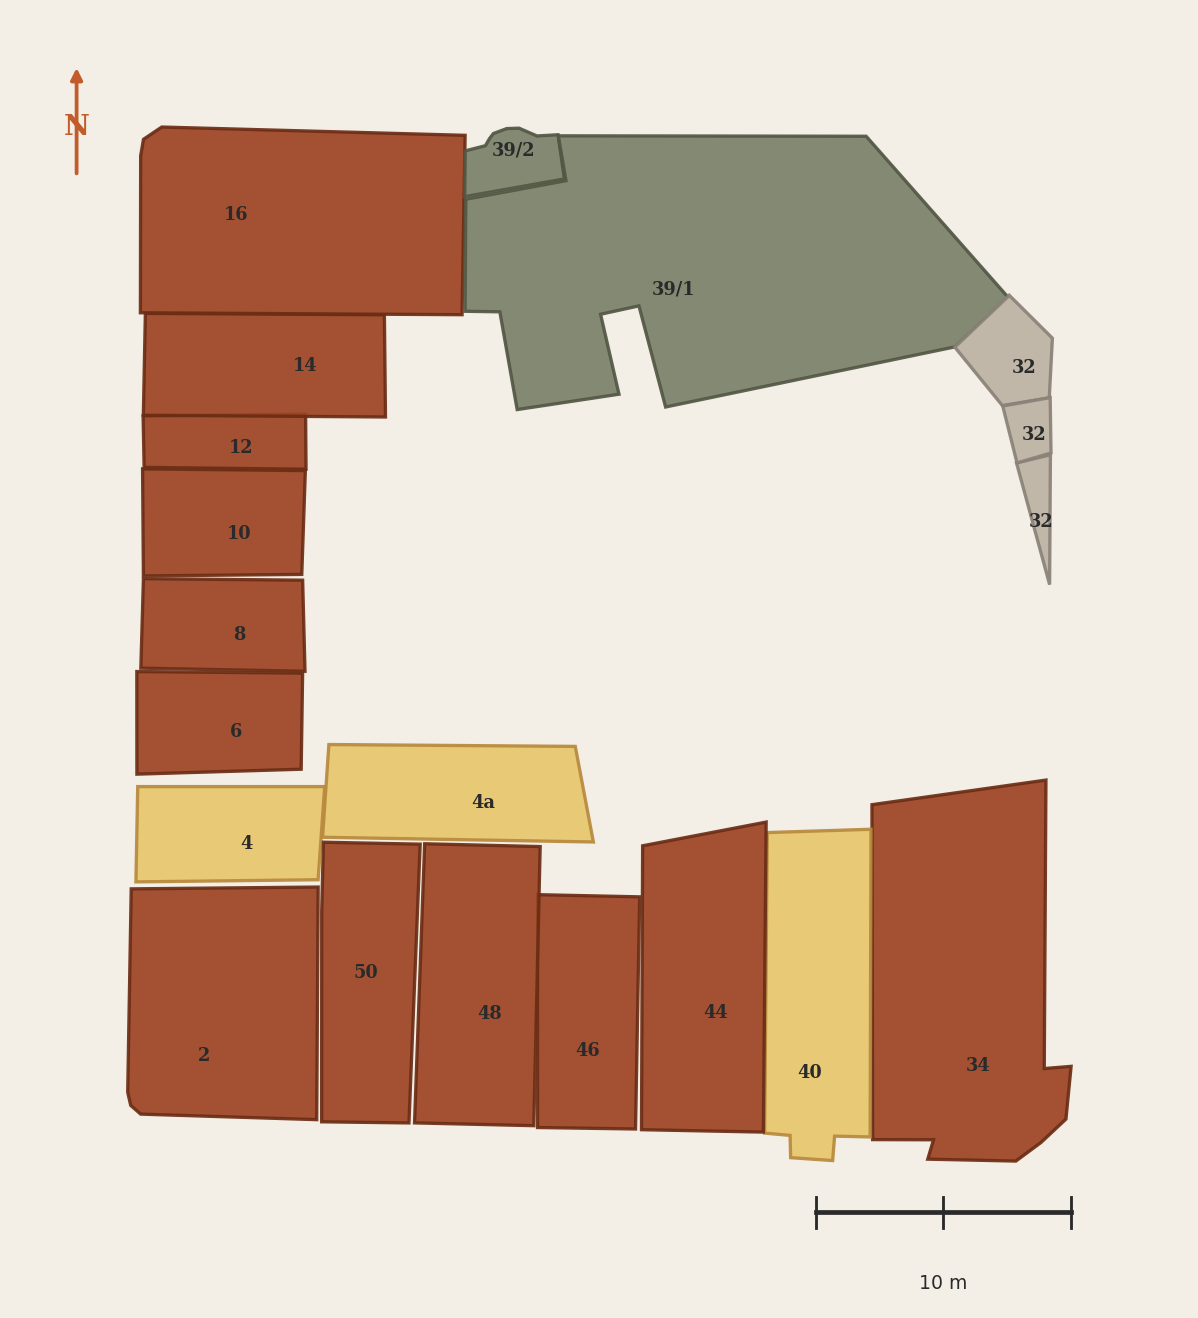
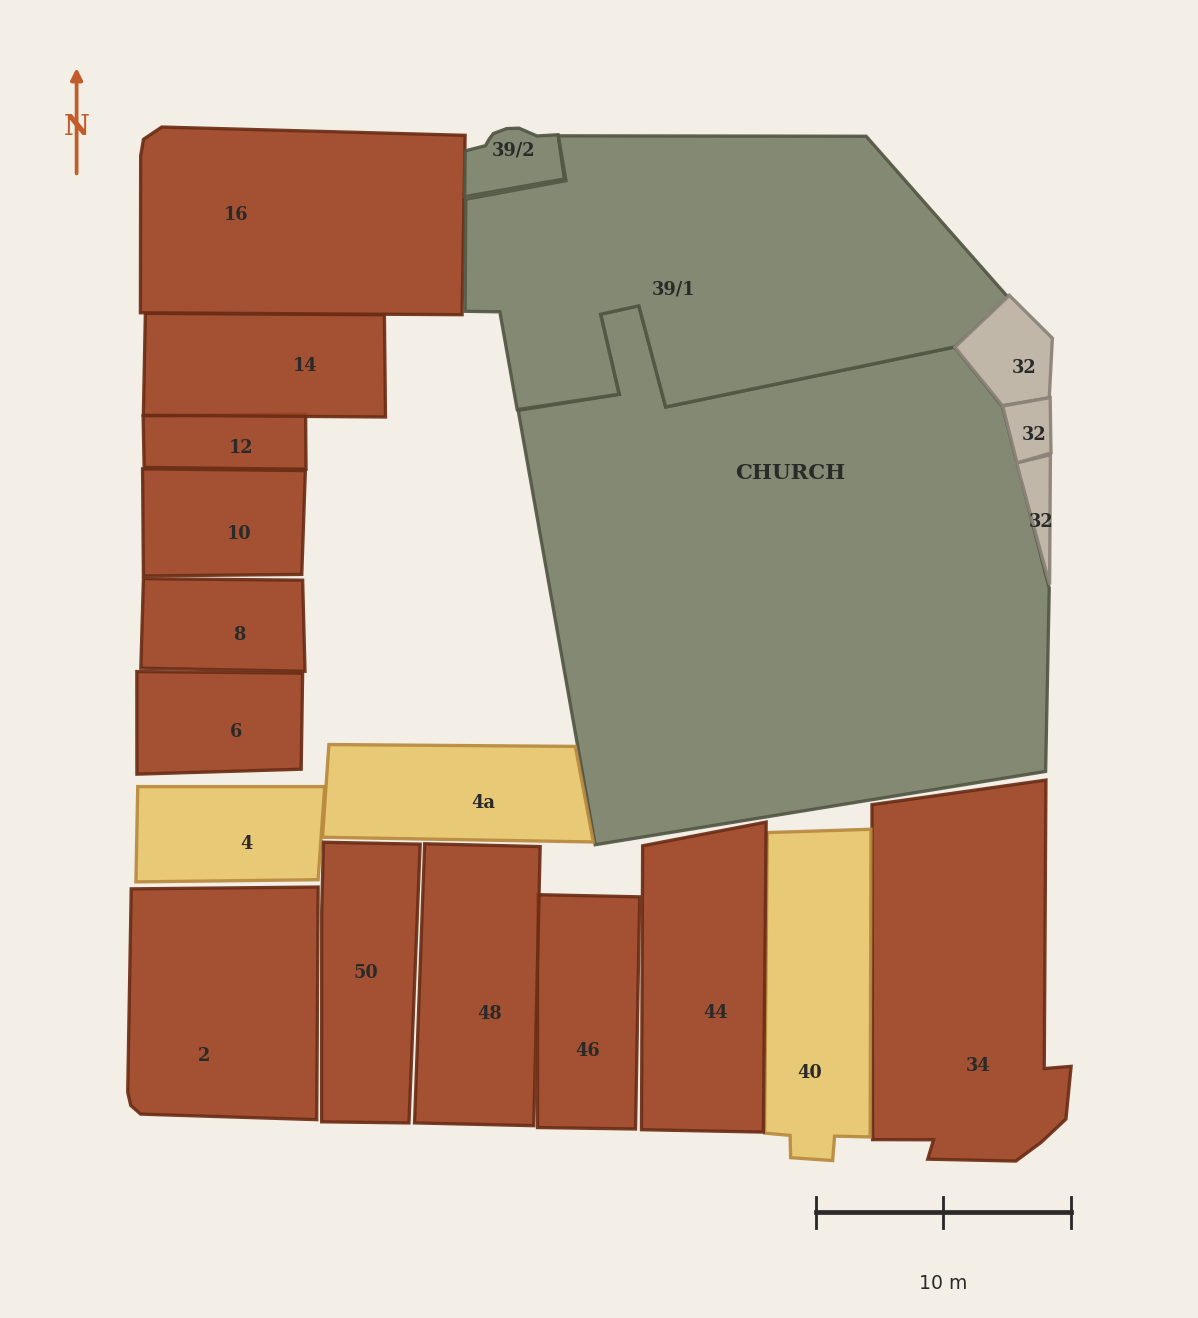
fix: adjust left wall and door specifications for improved geometry

Changed region(s): [[0.4324, 0.2178, 0.8957, 0.6533]]

diff --git a/src/hums/render/building_geometry_builder.py b/src/hums/render/building_geometry_builder.py
@@ -388,48 +388,50 @@ class BuildingGeometryBuilder:
 
         # User/map correction: a separate wall door sits further left of the
         # fountain. It must not visually attach to the fountain slab.
-        left_wall_u0 = -facade_w / 2 - 2.72
-        left_wall_u1 = -facade_w / 2 - 1.08
-        left_wall_top = min(height - 0.18, 2.84)
-        left_wall_out0 = -0.10
-        left_wall_front_out = 0.20
-        door_u0 = left_wall_u0 + 0.38
-        door_u1 = min(left_wall_u1 - 0.32, door_u0 + 0.72)
-        door_z0 = 0.14
-        door_z1 = min(2.04, left_wall_top - 0.26)
-        door_out = left_wall_front_out - 0.012
-        trim_out = left_wall_front_out + 0.030
-        detail_out = door_out + 0.012
-        knob_out = left_wall_front_out + 0.060
+        left_wall_u0 = -facade_w / 2 - 3.02
+        left_wall_u1 = -facade_w / 2 - 0.86
+        left_wall_top = min(height - 0.08, 3.04)
+        left_wall_out0 = -0.14
+        left_wall_front_out = 0.12
+        trim_out = 0.24
+        door_u0 = left_wall_u0 + 0.66
+        door_u1 = min(left_wall_u1 - 0.50, door_u0 + 0.76)
+        door_z0 = 0.12
+        door_z1 = min(2.12, left_wall_top - 0.36)
+        door_back_out = left_wall_front_out + 0.006
+        door_front_out = left_wall_front_out + 0.072
+        detail_out = door_front_out + 0.010
+        knob_out = door_front_out + 0.035
 
-        # Build the independent wall around the opening instead of drawing a
-        # door over a full slab; this makes the panel read as inset in a wall.
-        wall_piece_specs = [
-            ("left_wall", left_wall_u0, door_u0 - 0.07, 0.00, left_wall_top),
-            ("right_wall", door_u1 + 0.07, left_wall_u1, 0.00, left_wall_top),
-            ("head_wall", door_u0 - 0.07, door_u1 + 0.07, door_z1 + 0.08, left_wall_top),
-            ("base_plinth", left_wall_u0, left_wall_u1, 0.00, door_z0),
-        ]
-        for name, u0, u1, z0, z1 in wall_piece_specs:
-            _facade_box(mesh, pid, p, u0, u1, left_wall_out0, left_wall_front_out,
-                        z0, z1, "monument_stone", f"left_side_door.wall.{name}")
-        _facade_box(mesh, pid, p, door_u0 - 0.08, door_u1 + 0.08,
-                    left_wall_out0 + 0.04, left_wall_front_out - 0.035,
-                    door_z0, door_z1 + 0.08, "fountain_stone_dark",
+        # Make the host wall unmistakable: a grounded, thick plaster/stone
+        # wall panel first, then a recessed volumetric door set into it.
+        _facade_box(mesh, pid, p, left_wall_u0, left_wall_u1,
+                    left_wall_out0, left_wall_front_out, 0.00, left_wall_top,
+                    "monument_stone", "left_side_door.host_wall")
+        _facade_box(mesh, pid, p, door_u0 - 0.11, door_u1 + 0.11,
+                    left_wall_front_out - 0.055, door_back_out,
+                    door_z0, door_z1 + 0.12, "fountain_stone_dark",
                     "left_side_door.recess_shadow")
+        _facade_box(mesh, pid, p, door_u0, door_u1,
+                    door_back_out, door_front_out, door_z0, door_z1,
+                    "door_panel", "left_side_door.door_slab")
         _facade_box(mesh, pid, p, left_wall_u0 - 0.04, left_wall_u1 + 0.04, 0.12, 0.24,
                     left_wall_top - 0.18, left_wall_top, "plinth_stone",
                     "left_side_door.top_lintel")
         _facade_role_quad(mesh, pid, p, door_u0, door_z0, door_u1, door_z1,
-                          "door_panel", "left_side_door.panel", role="Door", out=door_out)
-        for name, u0, u1, z0, z1 in (
-            ("left_jamb", door_u0 - 0.06, door_u0, door_z0, door_z1 + 0.06),
-            ("right_jamb", door_u1, door_u1 + 0.06, door_z0, door_z1 + 0.06),
-            ("head", door_u0 - 0.06, door_u1 + 0.06, door_z1, door_z1 + 0.10),
-            ("threshold", door_u0 - 0.08, door_u1 + 0.08, 0.04, 0.14),
+                          "door_panel", "left_side_door.panel", role="Door", out=door_front_out + 0.002)
+        for name, u0, u1, z0, z1, out0, out1 in (
+            ("left_jamb", door_u0 - 0.09, door_u0, door_z0, door_z1 + 0.10,
+             left_wall_front_out + 0.010, trim_out),
+            ("right_jamb", door_u1, door_u1 + 0.09, door_z0, door_z1 + 0.10,
+             left_wall_front_out + 0.010, trim_out),
+            ("head", door_u0 - 0.09, door_u1 + 0.09, door_z1, door_z1 + 0.14,
+             left_wall_front_out + 0.010, trim_out),
+            ("threshold", door_u0 - 0.11, door_u1 + 0.11, 0.02, door_z0,
+             left_wall_front_out + 0.012, trim_out),
         ):
-            _facade_quad(mesh, pid, p, u0, z0, u1, z1, "plinth_stone",
-                         f"left_side_door.{name}", out=trim_out)
+            _facade_box(mesh, pid, p, u0, u1, out0, out1, z0, z1,
+                        "plinth_stone", f"left_side_door.{name}")
         panel_mid = (door_u0 + door_u1) / 2.0
         _facade_quad(mesh, pid, p, door_u0 + 0.09, 0.46, door_u1 - 0.09, 1.02,
                      "fountain_side_door_shadow", "left_side_door.lower_panel", out=detail_out)
